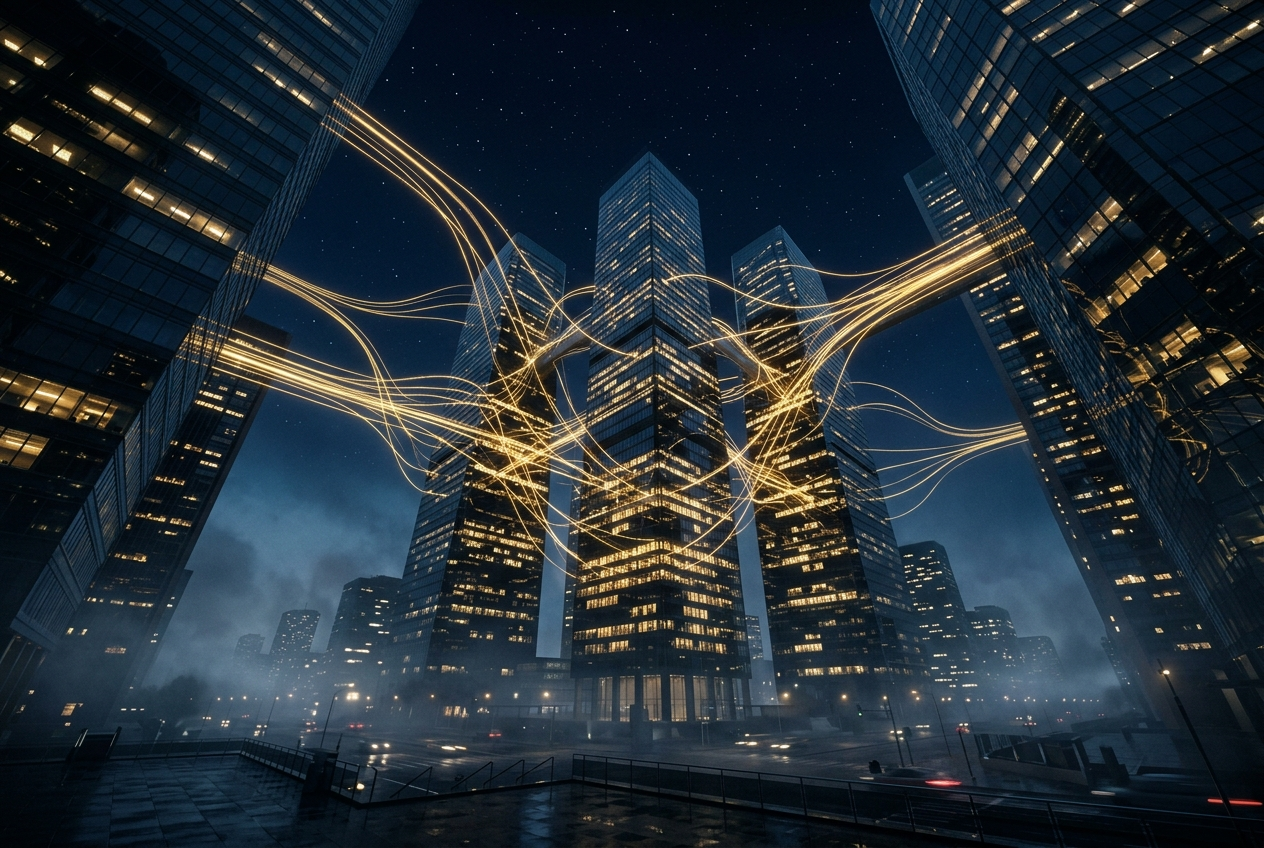
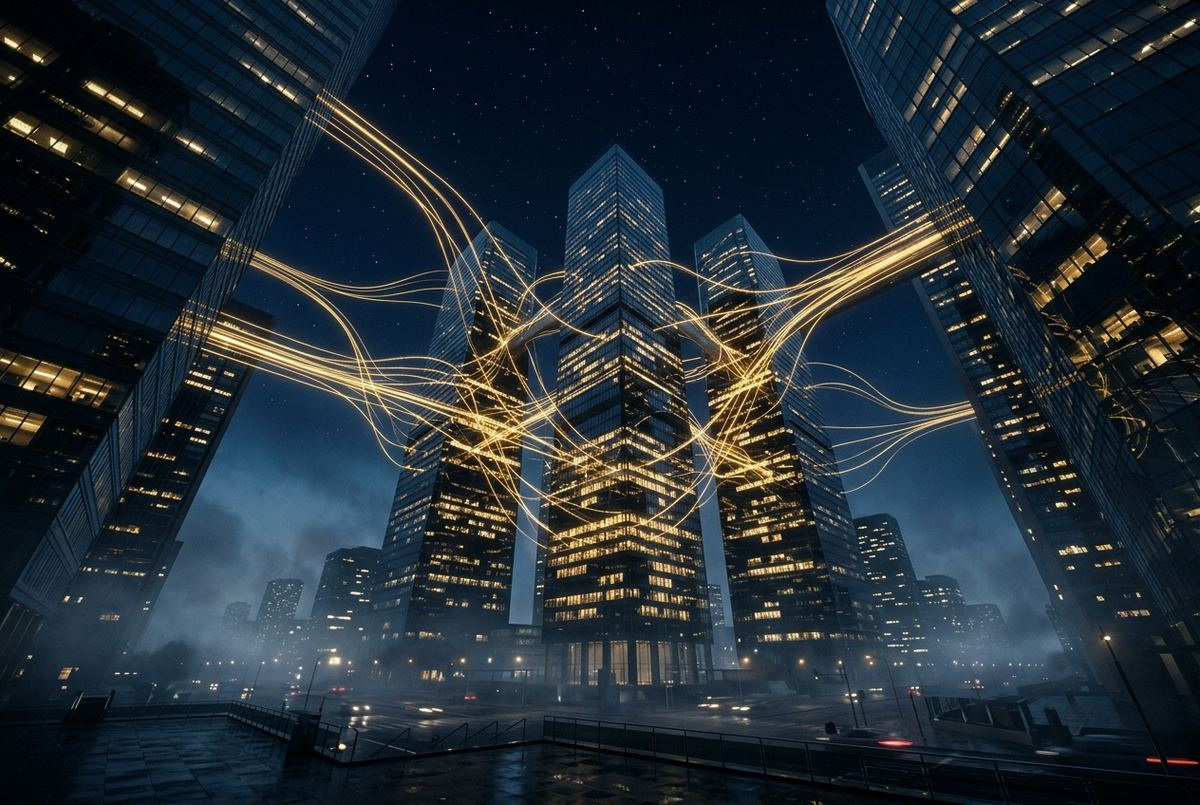
Univers visuel généré : héros Paris nuit, bandeaux scan, cartes secteurs illustrées
- 9 images générées (nuit + or, rendu cinématique) : héros, 2 bandeaux scan,
  6 univers sectoriels (holdings, finance, assurance, immobilier, santé, contentieux)
- rapatriées via un workflow GitHub Actions (le proxy de session bloque le CDN),
  puis optimisées (7 Mo -> 1,2 Mo, JPEG progressif)
- intégration : héros image + dégradés, cartes secteurs illustrées (accueil +
  page secteurs), bannières image sur les hubs, fonds des bandeaux scan

Claude-Session: https://claude.ai/code/session_01YAhCS4Taq4FTmrAZZ3s6j8

diff --git a/site/src/data/images.ts b/site/src/data/images.ts
@@ -1,0 +1,17 @@
+/**
+ * Images d'ambiance générées (direction artistique nuit + or).
+ * Un hub sans entrée ici retombe proprement sur sa carte typographique.
+ */
+export const imagesSecteurs: Record<string, string> = {
+  'holdings-tva': '/images/holdings.jpg',
+  'taxe-salaires-holdings': '/images/holdings.jpg',
+  'la-tva-des-etablissements-financiers': '/images/finance.jpg',
+  'taxe-salaires-etablissements-financiers': '/images/finance.jpg',
+  'impact-groupe-tva-taxe-salaires': '/images/finance.jpg',
+  'tva-des-assureurs-et-des-mutuelles': '/images/assurance.jpg',
+  'tva-immobiliere': '/images/immobilier.jpg',
+  'taxe-salaires-immobilier': '/images/immobilier.jpg',
+  'tva-medicale': '/images/sante.jpg',
+  'taxe-salaires-sante': '/images/sante.jpg',
+  'contentieux-tva': '/images/contentieux.jpg',
+};
